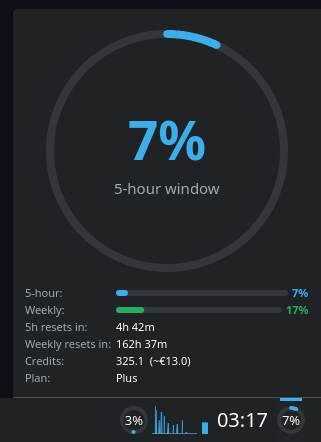
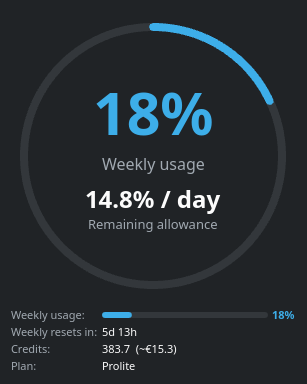
Handle new limits, better datetime, remaining % per day

diff --git a/package/contents/ui/FullRep.qml b/package/contents/ui/FullRep.qml
@@ -17,10 +17,35 @@ Item {
         var now = Math.floor(Date.now() / 1000)
         var diff = unixTs - now
         if (diff <= 0) return i18n("now")
-        var h = Math.floor(diff / 3600)
+        var d = Math.floor(diff / 86400)
+        var h = Math.floor((diff % 86400) / 3600)
         var m = Math.floor((diff % 3600) / 60)
+        if (d > 0) return d + "d " + h + "h"
         if (h > 0) return h + "h " + m + "m"
-        return m + "m"
+        return Math.max(1, m) + "m"
+    }
+
+    function windowName(minutes) {
+        if (minutes === 10080) return i18n("Weekly")
+        if (minutes >= 60 && minutes % 60 === 0) return i18n("%1-hour", minutes / 60)
+        return i18n("%1-minute", minutes)
+    }
+
+    function remainingPerDay() {
+        if (!root.usageData) return "—"
+        var resetsAt = null
+        var used = 0
+        if (root.usageData.secondary_window_minutes >= 1440) {
+            resetsAt = root.usageData.secondary_resets_at
+            used = root.secondaryUsed
+        } else if (root.usageData.primary_window_minutes >= 1440) {
+            resetsAt = root.usageData.primary_resets_at
+            used = root.primaryUsed
+        }
+        if (!resetsAt) return "—"
+        var daysLeft = (resetsAt - Date.now() / 1000) / 86400
+        if (daysLeft <= 0) return "—"
+        return i18n("%1% / day", ((100 - used) / daysLeft).toFixed(1))
     }
 
     function fmtCredits(raw) {
@@ -68,27 +93,56 @@ Item {
 
                 Column {
                     anchors.centerIn: parent
-                    spacing: 2
+                    anchors.verticalCenterOffset: -primaryGauge.height * 0.015
+                    spacing: primaryGauge.height * 0.025
 
-                    PlasmaComponents.Label {
+                    Column {
                         anchors.horizontalCenter: parent.horizontalCenter
-                        text: {
-                            if (root.loading) return "…"
-                            if (root.errorString !== "") return "!!"
-                            if (!root.usageData) return "—"
-                            return root.primaryUsed + "%"
+                        spacing: 0
+
+                        PlasmaComponents.Label {
+                            anchors.horizontalCenter: parent.horizontalCenter
+                            text: {
+                                if (root.loading) return "…"
+                                if (root.errorString !== "") return "!!"
+                                if (!root.usageData) return "—"
+                                return root.primaryUsed + "%"
+                            }
+                            color: primaryGauge.gaugeColor
+                            font.pixelSize: primaryGauge.height * 0.22
+                            font.bold: true
                         }
-                        color: primaryGauge.gaugeColor
-                        font.pixelSize: primaryGauge.height * 0.22
-                        font.bold: true
+
+                        PlasmaComponents.Label {
+                            anchors.horizontalCenter: parent.horizontalCenter
+                            text: root.usageData
+                                  ? i18n("%1 usage", windowName(root.usageData.primary_window_minutes))
+                                  : ""
+                            color: Kirigami.Theme.disabledTextColor
+                            font.pixelSize: primaryGauge.height * 0.06
+                            visible: root.usageData !== null
+                        }
                     }
 
-                    PlasmaComponents.Label {
+                    Column {
                         anchors.horizontalCenter: parent.horizontalCenter
-                        text: i18n("5-hour window")
-                        color: Kirigami.Theme.disabledTextColor
-                        font.pixelSize: primaryGauge.height * 0.06
                         visible: root.usageData !== null
+                        spacing: 0
+
+                        PlasmaComponents.Label {
+                            anchors.horizontalCenter: parent.horizontalCenter
+                            text: remainingPerDay()
+                            color: Kirigami.Theme.textColor
+                            font.pixelSize: primaryGauge.height * 0.09
+                            font.bold: true
+                        }
+
+                        PlasmaComponents.Label {
+                            anchors.horizontalCenter: parent.horizontalCenter
+                            text: i18n("Remaining allowance")
+                            color: Kirigami.Theme.disabledTextColor
+                            font.pixelSize: primaryGauge.height * 0.05
+                        }
                     }
                 }
             }
@@ -102,7 +156,9 @@ Item {
             visible: root.usageData !== null && root.errorString === ""
 
             PlasmaComponents.Label {
-                text: i18n("5-hour:")
+                text: root.usageData
+                      ? i18n("%1 usage:", windowName(root.usageData.primary_window_minutes))
+                      : ""
                 color: Kirigami.Theme.disabledTextColor
                 font.pointSize: Kirigami.Theme.smallFont.pointSize
             }
@@ -140,13 +196,17 @@ Item {
             }
 
             PlasmaComponents.Label {
-                text: i18n("Weekly:")
+                text: root.usageData
+                      ? i18n("%1 usage:", windowName(root.usageData.secondary_window_minutes))
+                      : ""
                 color: Kirigami.Theme.disabledTextColor
                 font.pointSize: Kirigami.Theme.smallFont.pointSize
+                visible: root.usageData && root.usageData.secondary_window_minutes > 0
             }
             RowLayout {
                 Layout.fillWidth: true
                 spacing: Kirigami.Units.smallSpacing
+                visible: root.usageData && root.usageData.secondary_window_minutes > 0
                 Item {
                     Layout.fillWidth: true
                     implicitHeight: 6
@@ -178,7 +238,9 @@ Item {
             }
 
             PlasmaComponents.Label {
-                text: i18n("5h resets in:")
+                text: root.usageData
+                      ? i18n("%1 resets in:", windowName(root.usageData.primary_window_minutes))
+                      : ""
                 color: Kirigami.Theme.disabledTextColor
                 font.pointSize: Kirigami.Theme.smallFont.pointSize
             }
@@ -189,14 +251,18 @@ Item {
             }
 
             PlasmaComponents.Label {
-                text: i18n("Weekly resets in:")
+                text: root.usageData
+                      ? i18n("%1 resets in:", windowName(root.usageData.secondary_window_minutes))
+                      : ""
                 color: Kirigami.Theme.disabledTextColor
                 font.pointSize: Kirigami.Theme.smallFont.pointSize
+                visible: root.usageData && root.usageData.secondary_window_minutes > 0
             }
             PlasmaComponents.Label {
                 Layout.fillWidth: true
                 text: root.usageData ? fmtTimeLeft(root.usageData.secondary_resets_at) : ""
                 font.pointSize: Kirigami.Theme.smallFont.pointSize
+                visible: root.usageData && root.usageData.secondary_window_minutes > 0
             }
 
             PlasmaComponents.Label {

diff --git a/README.md b/README.md
@@ -6,7 +6,7 @@ A KDE Plasma 6 widget that displays your [OpenAI Codex](https://github.com/opena
 
 ## Features
 
-- Circular ring chart showing 5-hour window usage with percentage in the center
+- Circular ring chart showing current rate-limit window usage with percentage in the center
 - Weekly usage bar
 - Reset countdown timers
 - Credit balance and plan type display
